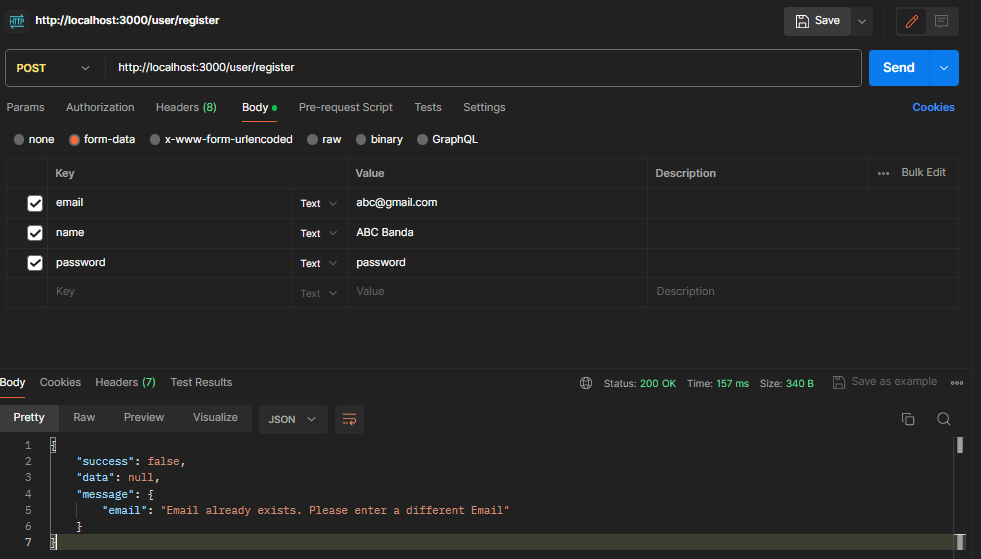
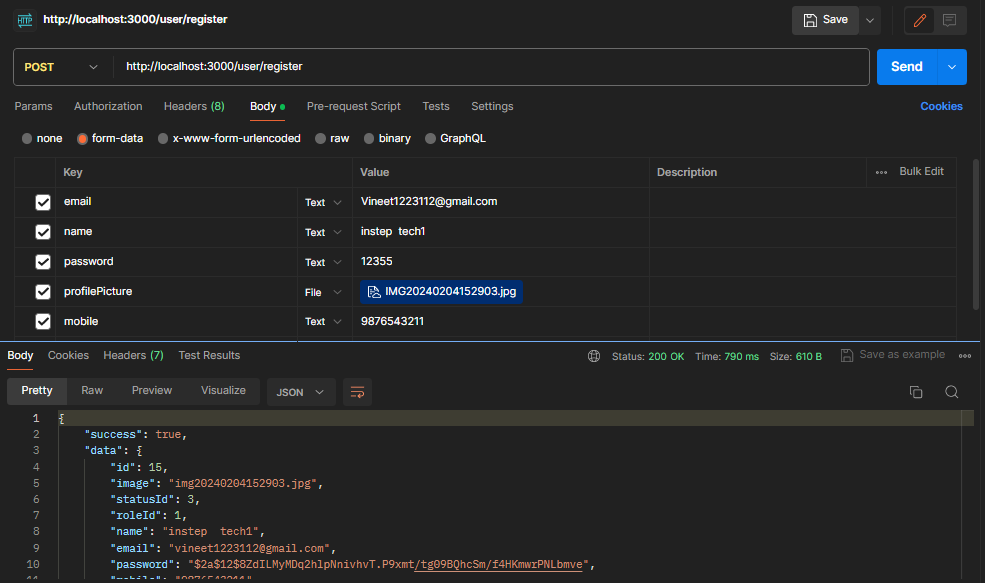
saving image name from form-data (postman) to DB, Added readme file, .env included

diff --git a/src/dbAccess/userDbContext.js b/src/dbAccess/userDbContext.js
@@ -1,14 +1,26 @@
 const bcrypt = require('bcryptjs')
-const { User
+const { User, Role, Status
 } = require('../../models')
+const { defaultStatus, defaultRoles } = require('../utils/helper')
+
 
 
 const register = async (req) => {
     try {
         let emails = req.body.email?.toLowerCase()
+        let profilePicture = req.file.originalname.toLowerCase()
+
         const user = await User.findOne({
             where: { email: emails }
         });
+        const newRole = await Role.findOne({
+            where: { key: defaultRoles.superadmin }
+        })
+        const newStatus = await Status.findOne({
+            where: { key: defaultStatus.approved }
+        })
+
+
         if (user) {
             return {
                 success: false,
@@ -18,11 +30,17 @@ const register = async (req) => {
                 },
             };
         }
+
+
         const hashedPassword = await bcrypt.hash(req.body.password, 12);
         const newUser = await User.create({
+            image: profilePicture,
+            statusId: newStatus.id,
+            roleId: newRole.id,
             name: req.body.name,
             email: emails,
-            password: hashedPassword
+            password: hashedPassword,
+            mobile: req.body.mobile
         });
         return {
             success: true,
@@ -32,98 +50,81 @@ const register = async (req) => {
             },
         };
     } catch (error) {
-        console.log(error, "errrrrr");
+        console.log(error, "Error  in register API");
         throw new Error(error);
     }
 }
 
-// login for everyone
-// const login = async (req) => {
-//     try {
-//         let emails = req.body.email.toLowerCase()
-//         const user = await User.findOne({
-//             where: { email: emails },
-//             include: [
-//                 {
-//                     model: Role,
-//                     required: false,
-//                     attributes: ['id', 'key', 'title'],
-//                 },
-//                 {
-//                     model: Status,
-//                     required: false,
-//                     attributes: ['name', 'key', 'id'],
-//                 },
-//             ],
-//         });
-//         if (!user) {
-//             return {
-//                 success: false,
-//                 data: null,
-//                 message: {
-//                     user: 'Email does not exist. Please enter a valid Email',
-//                 },
-//             };
-//         }
+const login = async (req) => {
+    try {
+        let emails = req.body.email?.toLowerCase()
+        const user = await User.findOne({
+            where: { email: emails },
+            include: [
+                {
+                    model: Role,
+                    required: false,
+                    attributes: ['id', 'key', 'title'],
+                },
+                {
+                    model: Status,
+                    required: false,
+                },
+            ],
+        });
 
-//         if (!user.password || user.Status.key == defaultStatus.pending) {
-//             return {
-//                 success: false,
-//                 message: `Please verify ${req.body.email}, first.`
-//             }
-//         }
+        if (!user) {
+            return {
+                success: false,
+                data: null,
+                message: {
+                    user: 'Email does not exist. Please enter a valid Email',
+                },
+            };
+        }
 
-//         // in future if user doesn't works for a long time or smthng, then his account goes inactive.
-//         if (user && user.Status.key === defaultStatus.inactive) {
-//             return {
-//                 success: false,
-//                 data: null,
-//                 message: {
-//                     user: 'Your Account is inactive. Please contact the Admin.',
-//                 },
-//             };
-//         }
+        const isPasswordEqual = await bcrypt.compare(req.body.password, user.password);
+        if (!isPasswordEqual) {
+            return {
+                success: false,
+                data: null,
+                message: {
+                    password: 'You have entered a wrong password. Please Recheck your credentials.',
+                },
+            };
+        }
 
-//         const isPasswordEqual = await bcrypt.compare(req.body.password, user.password);
-//         if (!isPasswordEqual) {
-//             return {
-//                 success: false,
-//                 data: null,
-//                 message: {
-//                     password: 'You have entered a wrong password. Please Recheck your credentials.',
-//                 },
-//             };
-//         }
+        const roleDetail = await Role.findOne({
+            where: { id: user.roleId }
+        });
 
-//         const roleDetail = await Role.findOne({
-//             where: { id: user.roleId }
-//         });
+        const userData = await User.findOne({
+            where: { id: user.id },
+            attributes: ['id', 'name', 'email'],
+            include: [{
+                model: Role,
+                required: false
+            }]
+        });
 
-//         const userData = await User.findOne({
-//             where: { id: user.id },
-//             attributes: ['id', 'name', 'email'],
-//             include: [{
-//                 model: Role,
-//                 required: false
-//             }]
-//         });
 
-//         return {
-//             success: true,
-//             data: userData,
-//             roleDetail,
-//             message: {
-//                 default: 'Login Successful',
-//             },
-//         };
-//     } catch (error) {
-//         console.log(error, "errrrrr");
-//         throw new Error(error);
-//     }
-// };
+        return {
+            success: true,
+            data: userData,
+            roleDetail,
+            message: {
+                default: 'Login Successful',
+            },
+        };
+    } catch (error) {
+        console.log(error, "errrrrr");
+        throw new Error(error);
+    }
+};
+
 
 
 module.exports = {
     register,
-    // login
+    login
 }

diff --git a/src/routes/user.route.js b/src/routes/user.route.js
@@ -1,22 +1,30 @@
 // to handle the routes after routes/index.js
 const express = require('express');
 const usercontroller = require('../controllers/user.controller');
-const { fileUpload } = require('../middlewares/file');
+// const file = require('multer')();
+const multer = require('multer');
+const file = multer();
 const router = express.Router();
 
-router.post('/register', fileUpload.fields([//to take input in form-data
-    {
-        name: 'files',
-        maxCount: 1,
-    }
-]), usercontroller.register);
+// If you only need to handle a single file upload un single field named 'profilePicture'
+router.post('/register', file.single('profilePicture',2), usercontroller.register);
 
-router.post('/login', fileUpload.fields([//to take input in form-data
-    {
-        name: 'files',
-        maxCount: 1,
-    }
-]), usercontroller.login);
+// to handel multiple file uploads in a single field
+// router.post('/register', file.array('profilePicture', 10), usercontroller.register);
+
+// // for multiple file uploads
+// router.post('/register', fileUpload.fields([
+//     {
+//         name: 'profilePicture',
+//         maxCount: 10,
+//     },
+//     {
+//         name: 'backgroundPicture',
+//         maxCount: 10,
+//     }
+// ]), usercontroller.register);
+
+router.post('/login', file.any(), usercontroller.login);
 
 
 

diff --git a/models/user.js b/models/user.js
@@ -18,7 +18,21 @@ module.exports = (sequelize, DataTypes) => {
     name: DataTypes.STRING,
     email: DataTypes.STRING,
     password: DataTypes.STRING,
-    mobile: DataTypes.STRING
+    mobile: DataTypes.STRING,
+    roleId: {
+      type: DataTypes.INTEGER,
+      references: {
+        model: 'Role',
+        key: 'id'
+      }
+    },
+    statusId: {
+      type: DataTypes.INTEGER,
+      references: {
+        model: 'Status',
+        key: 'id'
+      }
+    }
   }, {
     sequelize,
     modelName: 'User',

diff --git a/src/utils/helper.js b/src/utils/helper.js
@@ -1,0 +1,20 @@
+// stores default data like defaultroles , status
+const defaultStatus = {
+    pending: 'pending',
+    active: 'active',
+    approved: 'approved',
+    inactive: 'inactive',
+    rejected: 'rejected',
+    cancelled: 'cancelled',
+  
+  };
+  const defaultRoles = {
+    superadmin: 'superadmin',
+    admin: 'admin',
+    user: 'user'
+  };
+  
+  module.exports = {
+    defaultStatus,
+    defaultRoles
+  };

diff --git a/src/businessLogic/userManager.js b/src/businessLogic/userManager.js
@@ -15,7 +15,7 @@ const login = async function (req) {
     if (result.success) {
         token = await generateToken(result.data, result.roleDetail);
         userData = result.data;
-        return { message: 'Login Successful', data: { token, userData }, success: true };
+        return { message: 'Login Successfull', data: { token, userData }, success: true };
     }
     return result;
 };

diff --git a/models/index.js b/models/index.js
@@ -40,4 +40,9 @@ Object.keys(db).forEach(modelName => {
 db.sequelize = sequelize;
 db.Sequelize = Sequelize;
 
+// start making associations, all the above code is auto generated by sequelize
+
+db.User.belongsTo(db.Role, { foreignKey: 'roleId' })
+db.User.belongsTo(db.Status, { foreignKey: 'statusId' })
+
 module.exports = db;

diff --git a/src/controllers/user.controller.js b/src/controllers/user.controller.js
@@ -1,5 +1,5 @@
 //  to show http status on success, failure
-const httpStatus = require('http-status');
+const httpStatus = require('http-status'); // hand
 const userManager = require('../businessLogic/userManager');
 
 const register = async function (req, res) {

diff --git a/README.md b/README.md
@@ -11,3 +11,14 @@
 <!-- yarn db:migrate -->
 <!-- yarn db:seeds -->
 * Step 3: git init <!-- to initialize a git repo-->
+
+
+# Packages used
+- bcryptjs = hashing and salting passwords.
+- http-status = to show the status of the request by HTTP status codes.
+- express = web framework for creating RESTful APIs.
+- dotenv = module for loading environment variables from a .env file.
+- jsonwebtoken = module for generating and verifying JSON Web Tokens.
+- sequelize = ORM for interacting with databases.
+- nodemon = development tool for automatically restarting the server.
+- multer = middleware for handling form-data responses.
